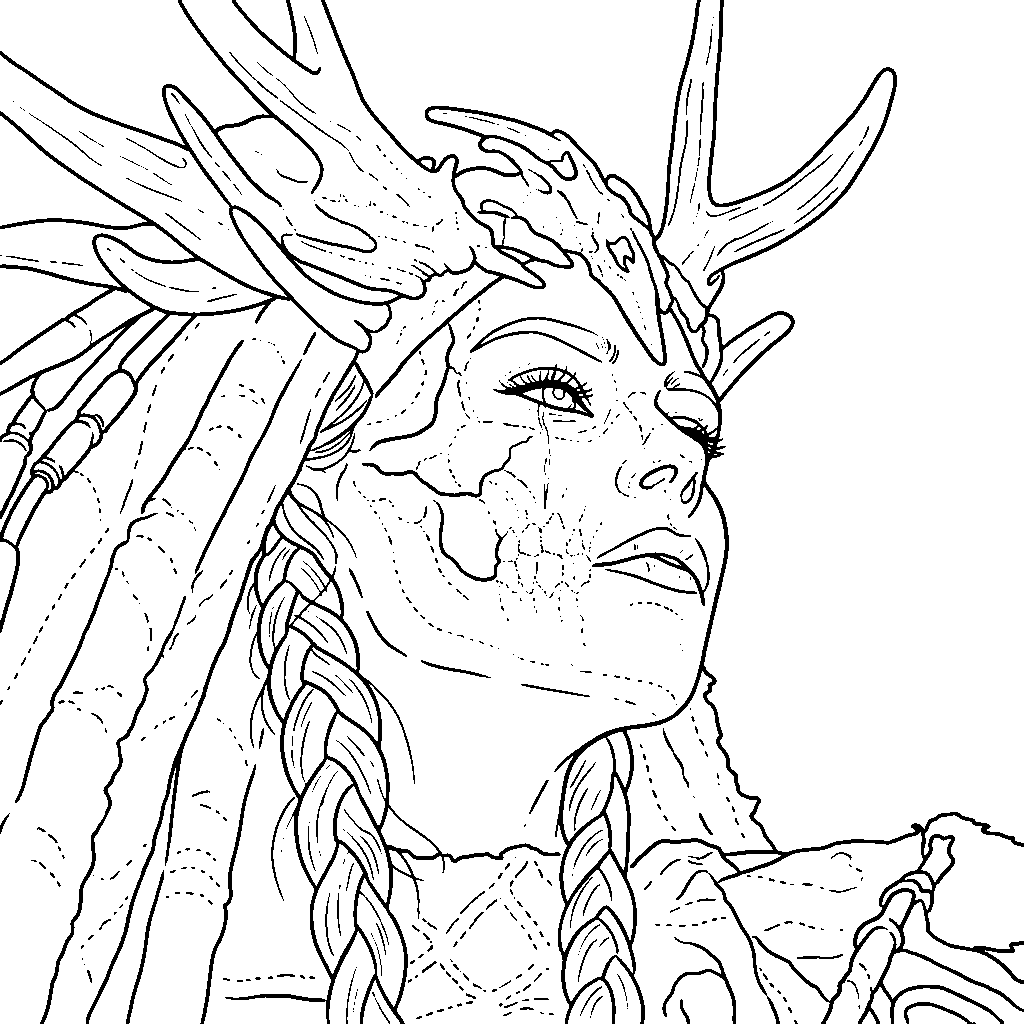
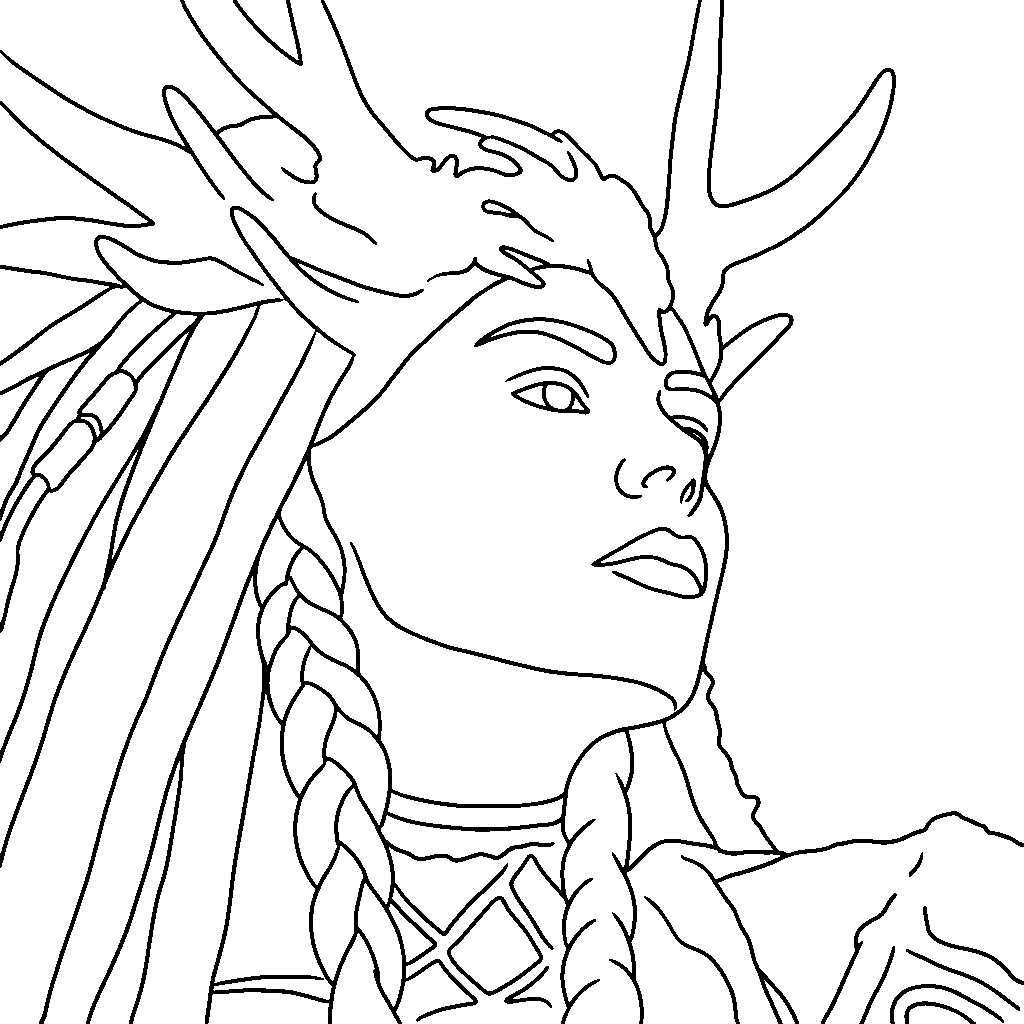
auto-commit for e5fdf47d-2ab9-4374-b225-d4303b48d9b6

diff --git a/backend/server.py b/backend/server.py
@@ -2150,9 +2150,9 @@ CRITICAL REQUIREMENTS:
 
 DETAIL LEVEL: {detail_level.upper()}
 {
-"- Minimal detail: Just essential outlines, very clean and simple" if detail_level == "minimal" else
-"- Moderate detail: Outlines plus a small number of key interior lines only where they meaningfully help a tattoo artist (major face structure, jawline, main features). Keep it clean and uncluttered — minimal shading guides. When hair is present, indicate its main flow direction with only a few flowing lines; do not map the full texture." if detail_level == "moderate" else
-"- Maximum detail: ALL outlines, ALL visible interior contours, AND dotted/dashed shading guides on every significant form (cheeks, jawline, brow ridges, nose bridge, lip volumes, collarbone, clothing folds, fabric wrinkles). When hair is present, read the FULL hair texture with MANY flowing directional lines across its entire form. Then, use DOTTED LINES to mark the hair's light-to-dark transitions — trace the boundary wherever a bright highlight region meets a darker shadow region in the hair (where light bounces off vs. where it falls into shadow). Treat these dotted lines like topographic contour lines that describe the tonal/lighting levels in the hair, showing the artist exactly where contrast shifts occur. Heavy must be visibly DENSER than Moderate with more individual marks and more interior contour detail — never less."
+"- Minimal detail (LOW FIDELITY — 'The Bones'): The ABSOLUTE cleanest, simplest version. ONLY the main outlines of the subject and its major defining features. NO interior hair strands, NO dotted shading, NO contour guides on face/hair, NO texture lines. Just the key silhouettes + eyes/nose/mouth outlines + the single outer boundary of hair and clothing. Must be visibly LESS detailed than Moderate — if Moderate has 50 marks, Low has about 15." if detail_level == "minimal" else
+"- Moderate detail (MID-RANGE — 'Form & Shape'): Between Low and Heavy. Outlines plus a small number of key interior lines only where they meaningfully help a tattoo artist (major face structure, jawline, main features, main hair flow direction via a few flowing lines). Clean and uncluttered, but clearly MORE detailed than Low. NO dense shading dots, NO full hair texture, NO light-to-dark transition guides — those belong to Heavy. Must sit clearly BETWEEN Low and Heavy in mark count." if detail_level == "moderate" else
+"- Maximum detail (HIGH DEF — 'Full Detail'): ALL outlines, ALL visible interior contours, AND dotted/dashed shading guides on every significant form (cheeks, jawline, brow ridges, nose bridge, lip volumes, collarbone, clothing folds, fabric wrinkles). When hair is present, read the FULL hair texture with MANY flowing directional lines across its entire form. Then, use DOTTED LINES to mark the hair's light-to-dark transitions — trace the boundary wherever a bright highlight region meets a darker shadow region in the hair (where light bounces off vs. where it falls into shadow). Treat these dotted lines like topographic contour lines that describe the tonal/lighting levels in the hair, showing the artist exactly where contrast shifts occur. Heavy must be visibly DENSER than Moderate with more individual marks and more interior contour detail — never less."
 }
 
 FIDELITY — strict (applies to all detail levels):
@@ -2345,9 +2345,9 @@ CRITICAL REQUIREMENTS:
 
 DETAIL LEVEL: {detail_level.upper()}
 {
-"- Minimal detail: Just essential outlines, very clean and simple" if detail_level == "minimal" else
-"- Moderate detail: Outlines plus a small number of key interior lines only where they meaningfully help a tattoo artist (major face structure, jawline, main features). Keep it clean and uncluttered — minimal shading guides. When hair is present, indicate its main flow direction with only a few flowing lines; do not map the full texture." if detail_level == "moderate" else
-"- Maximum detail: ALL outlines, ALL visible interior contours, AND dotted/dashed shading guides on every significant form (cheeks, jawline, brow ridges, nose bridge, lip volumes, collarbone, clothing folds, fabric wrinkles). When hair is present, read the FULL hair texture with MANY flowing directional lines across its entire form. Then, use DOTTED LINES to mark the hair's light-to-dark transitions — trace the boundary wherever a bright highlight region meets a darker shadow region in the hair (where light bounces off vs. where it falls into shadow). Treat these dotted lines like topographic contour lines that describe the tonal/lighting levels in the hair, showing the artist exactly where contrast shifts occur. Heavy must be visibly DENSER than Moderate with more individual marks and more interior contour detail — never less."
+"- Minimal detail (LOW FIDELITY — 'The Bones'): The ABSOLUTE cleanest, simplest version. ONLY the main outlines of the subject and its major defining features. NO interior hair strands, NO dotted shading, NO contour guides on face/hair, NO texture lines. Just the key silhouettes + eyes/nose/mouth outlines + the single outer boundary of hair and clothing. Must be visibly LESS detailed than Moderate — if Moderate has 50 marks, Low has about 15." if detail_level == "minimal" else
+"- Moderate detail (MID-RANGE — 'Form & Shape'): Between Low and Heavy. Outlines plus a small number of key interior lines only where they meaningfully help a tattoo artist (major face structure, jawline, main features, main hair flow direction via a few flowing lines). Clean and uncluttered, but clearly MORE detailed than Low. NO dense shading dots, NO full hair texture, NO light-to-dark transition guides — those belong to Heavy. Must sit clearly BETWEEN Low and Heavy in mark count." if detail_level == "moderate" else
+"- Maximum detail (HIGH DEF — 'Full Detail'): ALL outlines, ALL visible interior contours, AND dotted/dashed shading guides on every significant form (cheeks, jawline, brow ridges, nose bridge, lip volumes, collarbone, clothing folds, fabric wrinkles). When hair is present, read the FULL hair texture with MANY flowing directional lines across its entire form. Then, use DOTTED LINES to mark the hair's light-to-dark transitions — trace the boundary wherever a bright highlight region meets a darker shadow region in the hair (where light bounces off vs. where it falls into shadow). Treat these dotted lines like topographic contour lines that describe the tonal/lighting levels in the hair, showing the artist exactly where contrast shifts occur. Heavy must be visibly DENSER than Moderate with more individual marks and more interior contour detail — never less."
 }
 
 FIDELITY — strict (applies to all detail levels):
